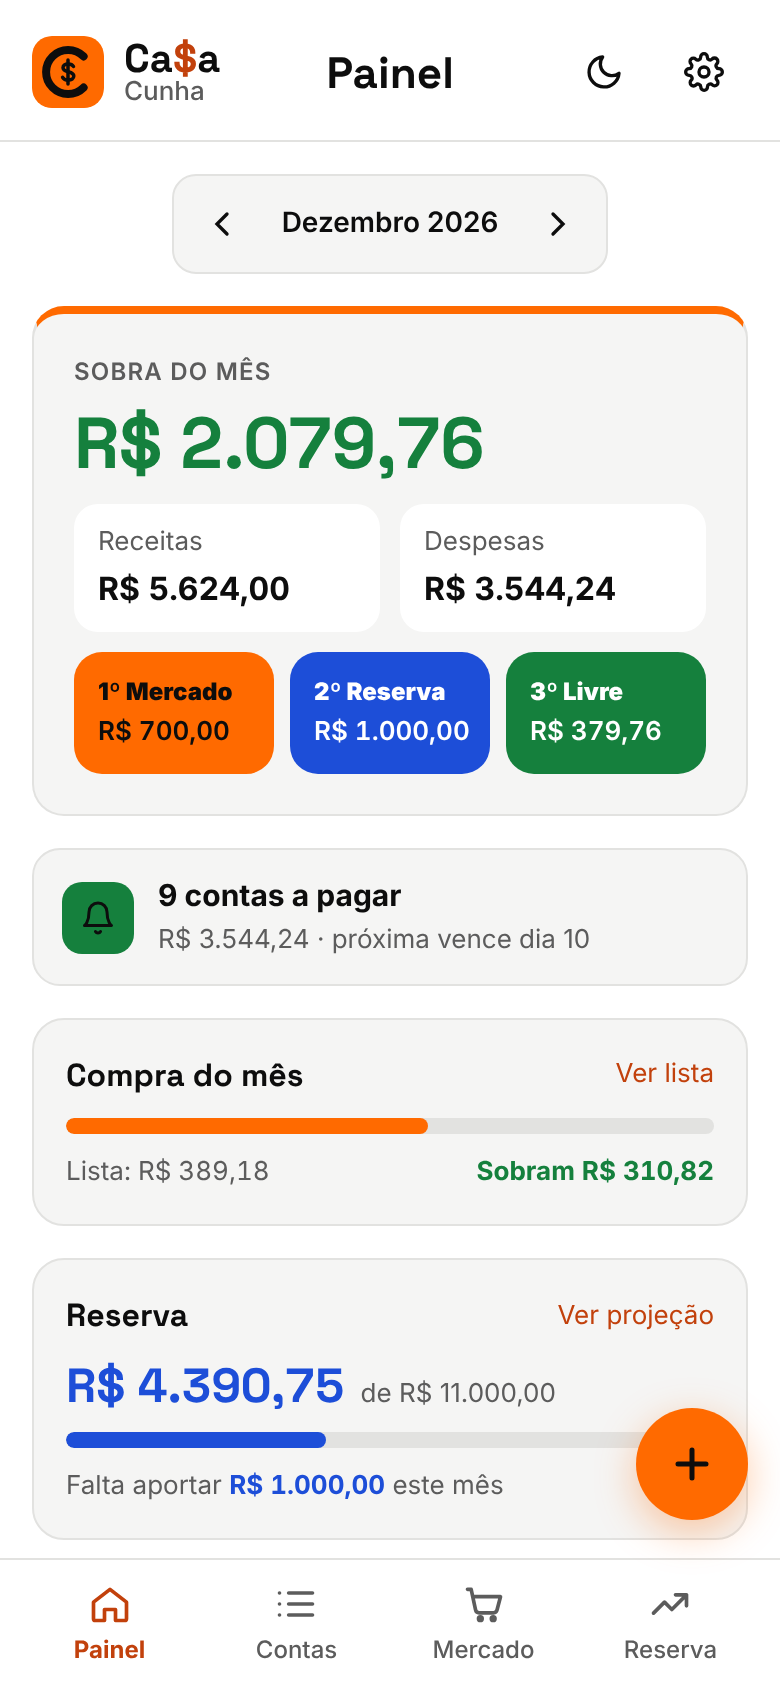
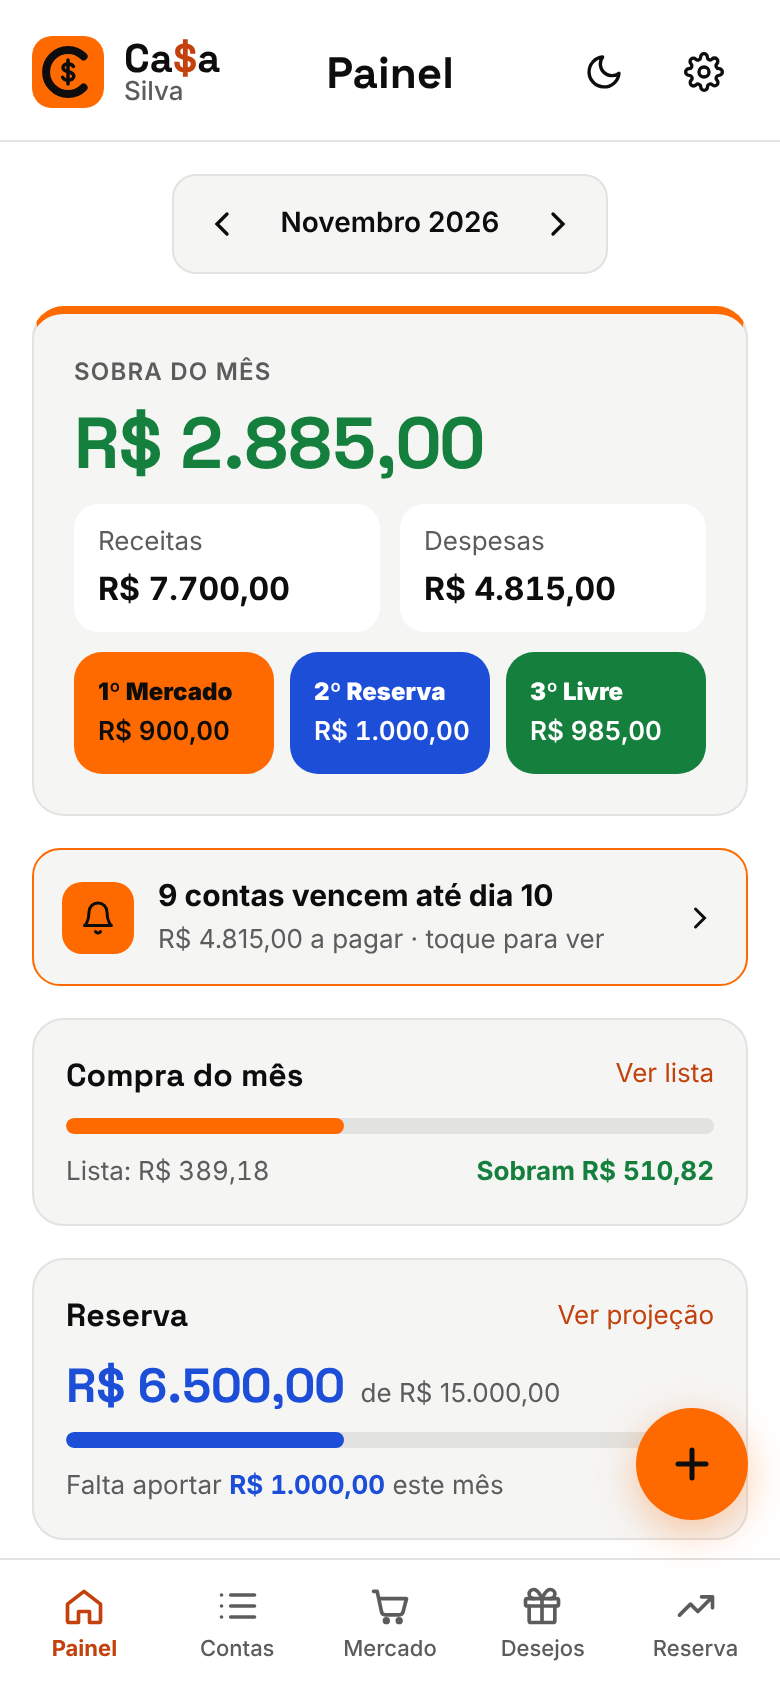
Dados de exemplo fictícios (Família Silva) e novos prints
Remove os valores reais do modo demonstração, do README e do SQL de exemplo.

Claude-Session: https://claude.ai/code/session_01TarmwYJmGaFE76QnseJHn3

diff --git a/js/app.js b/js/app.js
@@ -107,27 +107,27 @@
 
   // ---------------------------------------------------------------- backend: demonstração (só neste navegador)
   function demoBackend() {
-    const KEY = 'casa-demo-v1';
+    const KEY = 'casa-demo-v2';
     const now = () => new Date().toISOString();
+    // Família fictícia, com valores inventados, só para demonstração
     const seed = () => {
-      const f = { id: uuid(), sobrenome: 'Cunha', codigo_convite: 'DEMO42', limite_mercado: 700, aporte_mensal: 1000, meta_reserva: 11000 };
-      const me = { user_id: 'demo-user', familia_id: f.id, nome: 'Saymon', criado_em: now() };
+      const f = { id: uuid(), sobrenome: 'Silva', codigo_convite: 'DEMO42', limite_mercado: 900, aporte_mensal: 1000, meta_reserva: 15000 };
+      const me = { user_id: 'demo-user', familia_id: f.id, nome: 'Ana', criado_em: now() };
       const c = (nome, valor, natureza, tipo, quem, recorrencia = 'mensal', parcelas = null) =>
-        ({ id: uuid(), familia_id: f.id, nome, valor, natureza, tipo, quem, dia: 10, recorrencia, inicio: '2026-12', parcelas, fim: null, criado_em: now() });
-      const apl = { id: uuid(), familia_id: f.id, nome: 'Reserva de emergência', instituicao: 'CDB liquidez diária', pct_cdi: 100, saldo_base: 4390.75, data_base: todayISO(), base_atualizada_em: now(), criado_em: now() };
+        ({ id: uuid(), familia_id: f.id, nome, valor, natureza, tipo, quem, dia: 10, recorrencia, inicio: ym(), parcelas, fim: null, criado_em: now() });
+      const apl = { id: uuid(), familia_id: f.id, nome: 'Reserva de emergência', instituicao: 'CDB liquidez diária', pct_cdi: 100, saldo_base: 6500, data_base: todayISO(), base_atualizada_em: now(), criado_em: now() };
       const it = (nome, valor, ativo = true) => ({ id: uuid(), familia_id: f.id, nome, valor, ativo, criado_em: now() });
       return {
-        session: { user: { id: 'demo-user', email: 'demo@exemplo.com', user_metadata: { nome: 'Saymon' } } },
-        familia: f, membros: [me, { user_id: 'demo-2', familia_id: f.id, nome: 'Vanessa', criado_em: now() }],
+        session: { user: { id: 'demo-user', email: 'demo@exemplo.com', user_metadata: { nome: 'Ana' } } },
+        familia: f, membros: [me, { user_id: 'demo-2', familia_id: f.id, nome: 'João', criado_em: now() }],
         tables: {
           contas: [
-            c('Salário Vanessa', 3386, 'receita', 'Salário', 'Vanessa'), c('Salário Saymon', 2000, 'receita', 'Salário', 'Saymon'),
-            c('Apê', 165, 'receita', 'Outros', 'Casa'), c('Mãe', 73, 'receita', 'Outros', 'Casa'),
-            c('Aluguel', 1200, 'despesa', 'Fixa', 'Casa'), c('Caixa - Financiamento', 530, 'despesa', 'Fixa', 'Casa'),
-            c('Faculdade', 286, 'despesa', 'Fixa', 'Casa'), c('Amil', 207, 'despesa', 'Fixa', 'Casa'),
-            c('Internet', 120, 'despesa', 'Fixa', 'Casa'), c('MRV', 656, 'despesa', 'Parcela', 'Casa', 'parcelado', 4),
-            c('Shopee', 80.94, 'despesa', 'Cartão', 'Saymon'), c('Shopee', 214.30, 'despesa', 'Cartão', 'Vanessa'),
-            c('Mercado Pago', 250, 'despesa', 'Cartão', 'Saymon', 'unica')
+            c('Salário Ana', 4200, 'receita', 'Salário', 'Ana'), c('Salário João', 3500, 'receita', 'Salário', 'João'),
+            c('Aluguel', 1500, 'despesa', 'Fixa', 'Casa'), c('Condomínio', 380, 'despesa', 'Fixa', 'Casa'),
+            c('Energia', 210, 'despesa', 'Fixa', 'Casa'), c('Internet', 110, 'despesa', 'Fixa', 'Casa'),
+            c('Plano de saúde', 420, 'despesa', 'Fixa', 'Casa'), c('Escola', 600, 'despesa', 'Fixa', 'Casa'),
+            c('Financiamento do carro', 890, 'despesa', 'Parcela', 'Casa', 'parcelado', 10),
+            c('Cartão', 650, 'despesa', 'Cartão', 'Ana'), c('Streaming', 55, 'despesa', 'Cartão', 'João')
           ],
           pagamentos: [],
           mercado_itens: [it('Arroz 5 kg', 28.90), it('Feijão 1 kg', 8.50), it('Café 500 g', 18.90), it('Leite (12 un.)', 59.88),
@@ -409,7 +409,7 @@
       ${criar ? `
       <div class="preview-name"><img src="icons/icon.svg" alt=""><span class="brand-name">Ca<span class="cif">$</span>a <small id="pv-sobrenome">Sua família</small></span></div>
       <form class="form" data-form="criar-familia">
-        <div class="field"><label for="ob-sobrenome">Sobrenome da família</label><input class="input" id="ob-sobrenome" name="sobrenome" placeholder="Ex.: Cunha" required data-live="sobrenome"></div>
+        <div class="field"><label for="ob-sobrenome">Sobrenome da família</label><input class="input" id="ob-sobrenome" name="sobrenome" placeholder="Ex.: Silva" required data-live="sobrenome"></div>
         <div class="field"><label for="ob-nome">Seu nome</label><input class="input" id="ob-nome" name="nome" value="${h(nome)}" required></div>
         ${S.msg ? `<p class="error" role="alert">${h(S.msg)}</p>` : ''}
         <button class="btn primary block" type="submit">Criar minha Ca$a</button>

diff --git a/README.md b/README.md
@@ -4,11 +4,13 @@
 <p align="center"><b>As contas da família num lugar só.</b><br>O que vence, o que sobra e o que está investido. O que um lança, o outro vê na hora.</p>
 
 <p align="center">
-  <img src="docs/celular-painel.png" width="200" alt="Painel">
-  <img src="docs/celular-contas.png" width="200" alt="Contas do mês">
-  <img src="docs/celular-mercado.png" width="200" alt="Lista do mercado">
-  <img src="docs/celular-reserva.png" width="200" alt="Reserva e projeção">
+  <img src="docs/celular-painel.png" width="180" alt="Painel">
+  <img src="docs/celular-contas.png" width="180" alt="Contas do mês">
+  <img src="docs/celular-mercado.png" width="180" alt="Lista do mercado">
+  <img src="docs/celular-desejos.png" width="180" alt="Lista de desejos">
+  <img src="docs/celular-reserva.png" width="180" alt="Reserva e projeção">
 </p>
+<p align="center"><i>Telas com dados de exemplo (família fictícia).</i></p>
 
 ---
 
@@ -17,9 +19,10 @@
 - **Painel do mês:** quanto sobra (em verde), dividido em 1º mercado, 2º reserva e 3º livre.
 - **Contas:** fixas, cartões, parcelas e receitas. As que se repetem aparecem sozinhas nos próximos meses; parcelas contam até acabar. Um toque marca como pago.
 - **Vencimentos:** cada conta tem o dia de vencimento; o app avisa o que vence em até 3 dias e o que está atrasado.
+- **Lista de desejos:** o que a família quer comprar, por prioridade, com a previsão de quando cabe no orçamento.
 - **Lista do mercado:** liga e desliga itens, troca o preço e vê na hora quanto sobra do limite do mês.
 - **Reserva e investimentos (em azul):** registre os aportes; o rendimento é estimado com o CDI do dia, direto do Banco Central. Projeção de 12 meses até a meta.
-- **Família:** cada casa cria a sua com o sobrenome ("Ca$a Cunha") e convida os outros com um código.
+- **Família:** cada casa cria a sua com o sobrenome ("Ca$a Silva") e convida os outros com um código.
 - **Funciona no PC e no celular:** no navegador ou instalado na tela inicial (Android e iPhone). Tema escuro e claro.
 - **Privacidade:** cada família só enxerga os próprios dados; qualquer pessoa pode excluir a própria conta pelo app.
 
@@ -46,7 +49,7 @@ HTML, CSS e JavaScript puros, sem etapa de build. Banco, login e atualização a
 | `index.html`, `js/app.js`, `css/styles.css` | O app (telas, regras e visual) |
 | `js/config.js` | Endereço e chave pública do seu Supabase |
 | `supabase/schema.sql` | Tabelas, segurança por família, convite e exclusão de conta |
-| `supabase/seed-familia-cunha.sql` | Exemplo de como lançar contas iniciais por SQL |
+| `supabase/exemplo-contas-iniciais.sql` | Exemplo (fictício) de como lançar contas iniciais por SQL |
 | `scripts/gerar-config.js`, `netlify.toml` | Preenchem o `config.js` a partir das variáveis do Netlify |
 | `sw.js`, `manifest.webmanifest`, `icons/` | Instalar no celular como app |
 | `privacidade.html` | Política de privacidade e termos de uso |

diff --git a/PUBLICAR.md b/PUBLICAR.md
@@ -37,7 +37,7 @@ Tudo gratuito. Leva uns 20 minutos.
 
 1. Abra o endereço › **Criar conta** › **Criar família** com o seu sobrenome.
 2. Em **Ajustes** está o **código de convite**: mande para quem mora com você. A pessoa cria a conta e escolhe **Tenho um código**.
-3. Para lançar muitas contas de uma vez por SQL, use `supabase/seed-familia-cunha.sql` como modelo (troque o sobrenome e as contas).
+3. Para lançar muitas contas de uma vez por SQL, use `supabase/exemplo-contas-iniciais.sql` como modelo (troque o sobrenome e as contas).
 
 ## 4. Instalar no celular
 
